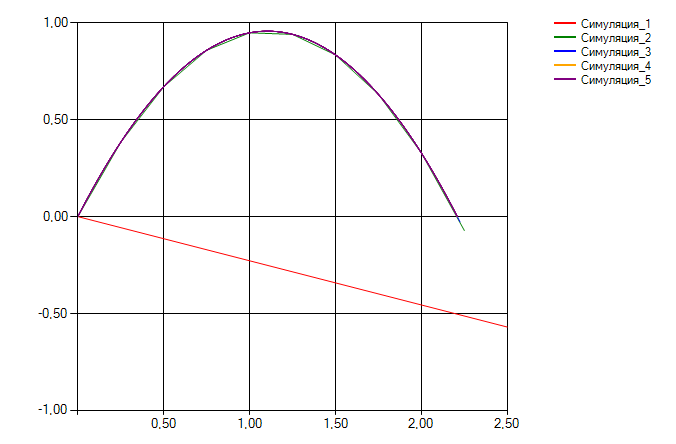
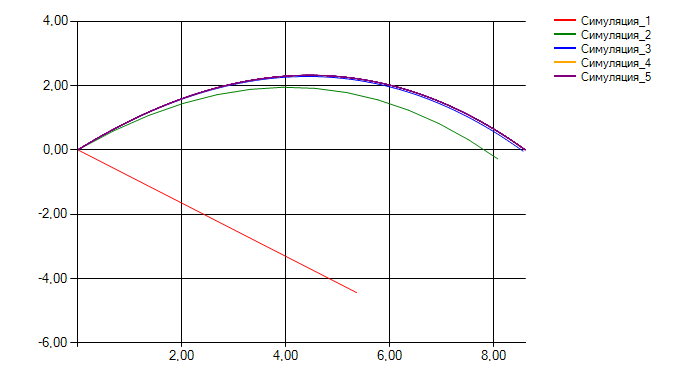
Учтена атмосфера

diff --git a/lab01/Отчёт.md b/lab01/Отчёт.md
@@ -4,27 +4,46 @@
 Предусмотреть возможность ввода шага моделирования и вывода результатов.  
 Приложение было написано на языке *C#* в *Visual Studio* с помощью *WinForms*.  
 Для моделирования были использованы следующие формулы:  
-x = v0 * cos(a) * t  
-y = v0 * sin(a) * t - ((g * t ^ 2) / 2)  
-vx = v0 * cos(a)  
-vy = v0 * sin(a) - g * t  
-v = sqrt(vx ^ 2 + vy ^ 2)  
+vx(0) = v0 * cos(a),  
+vx(t + dt) = vx(t) - k * vx(t) * v(t) * dt,  
+vy(t + dt) = vy(t) - (g + k * vy(t) * v(t)) * dt,  
+v = sqrt(vx ^ 2 + vy ^ 2),  
+x(t + dt) = x(t) + vx(t + dt) * dt,  
+y(t + dt) = y(t) + vy(t + dt) * dt,  
+где k = (C * S * ro) / 2m.  
+v0 - начальная скорость, м/с;  
+vx - скорость по x, м/c;  
+vy - скорость по y, м/c;  
+v - общая скорость, м/c;  
+a - начальный угол полёта, градусы;  
+x - координата тела по оси Ox, м;  
+y - координата тела по оси Oy, м;  
+m - масса тела, кг;  
+C - коэффициент лобового сопротивления;  
+S - площадь поперечного сечения, м^2;  
+ro - плотность воздуха (= 1,29 кг/м^3);  
+g - ускорение свободного падения (= 9,8 м/c^2).  
 **Пример работы приложения**  
 Интерфейс приложения после запуска одной симуляции:  
 ![interface_example.png](./pictures/interface_example.png)  
-Проведём 5 симуляций с одинаковыми для каждой параметрами стартовых скорости (*5 м/c*) и угла (*60°*),  
-но каждая симуляция будет иметь на порядок меньший шаг моделирования, начиная *1 с* и заканчивая *0,0001 с*.  
+Проведём 5 симуляций с одинаковыми для каждой параметрами:  
+стартовая скорость = *10 м/c*,  
+начальный угол = *45°*,  
+масса объекта = *20 кг*,  
+площадь поперечного сечения объекта = 5 *м^2*,  
+коэффициент лобового сопротивления = 0,15.
+Каждая симуляция будет иметь на порядок меньший шаг моделирования, начиная *1 с* и заканчивая *0,0001 с*.  
 Картинка, показывающая траектории симуляций:  
 ![all_trajectories.png](./pictures/all_trajectories.png)  
 Таблица, отображающая результаты каждой симуляции:
 | Шаг моделирования, с | 1 | 0.1 | 0.01 | 0.001 | 0.0001 |
 |----------------------|---|-----|------|-------|--------|
-| Дальность полёта, м |2,5|2,25|2,225|2,21|2,209|
-| Максимальная высота, м |0|0,948|0,957|0,957|0,957|
-| Скорость в конечной точке, м/с |6,014|5,139|5,054|5,003|5|
+| Дальность полёта, м |5,361|8,072|8,559|8,597|8,6|
+| Максимальная высота, м |0|1,946|2,282|2,316|2,32|
+| Скорость в конечной точке, м/с |6,96|8,167|8,491|8,511|8,514|
 
 **Вывод**  
 При решении задач, связанных с имитационным моделированием, очень важно правильно подбирать  
-шаг моделирования. При слишком маленьком шаге моделирования точность результатов может быть неудовлетворительной,  
-но при увеличении шага в определённый момент прирост точности результатов становится слишком маленьким,  
+шаг моделирования. При слишком большом шаге моделирования точность результатов может быть неудовлетворительной,  
+но при уменьшении шага в определённый момент прирост точности результатов становится слишком маленьким,  
 чтобы оправдывать дополнительные временные затраты.
